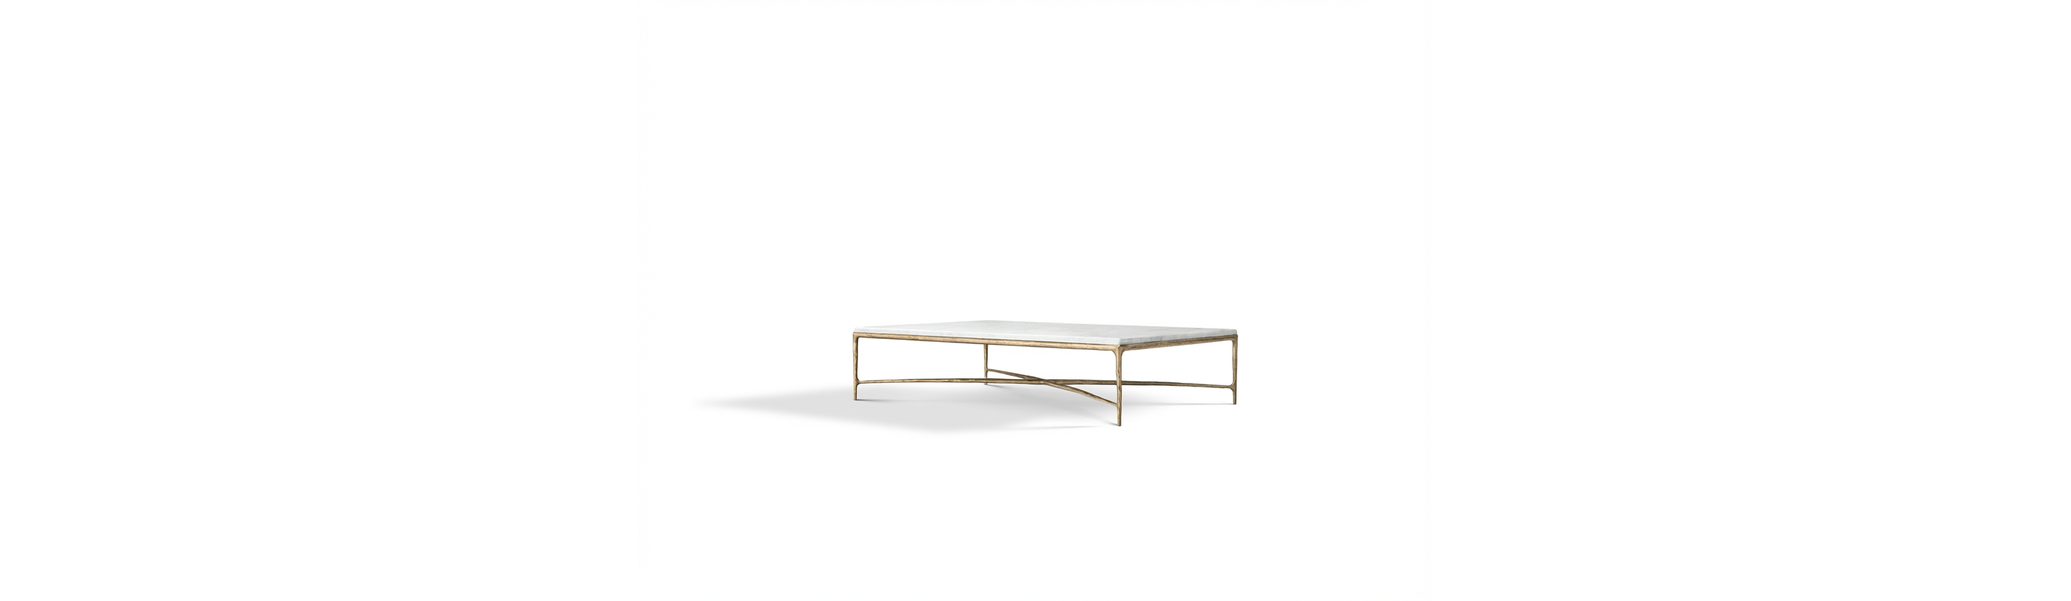
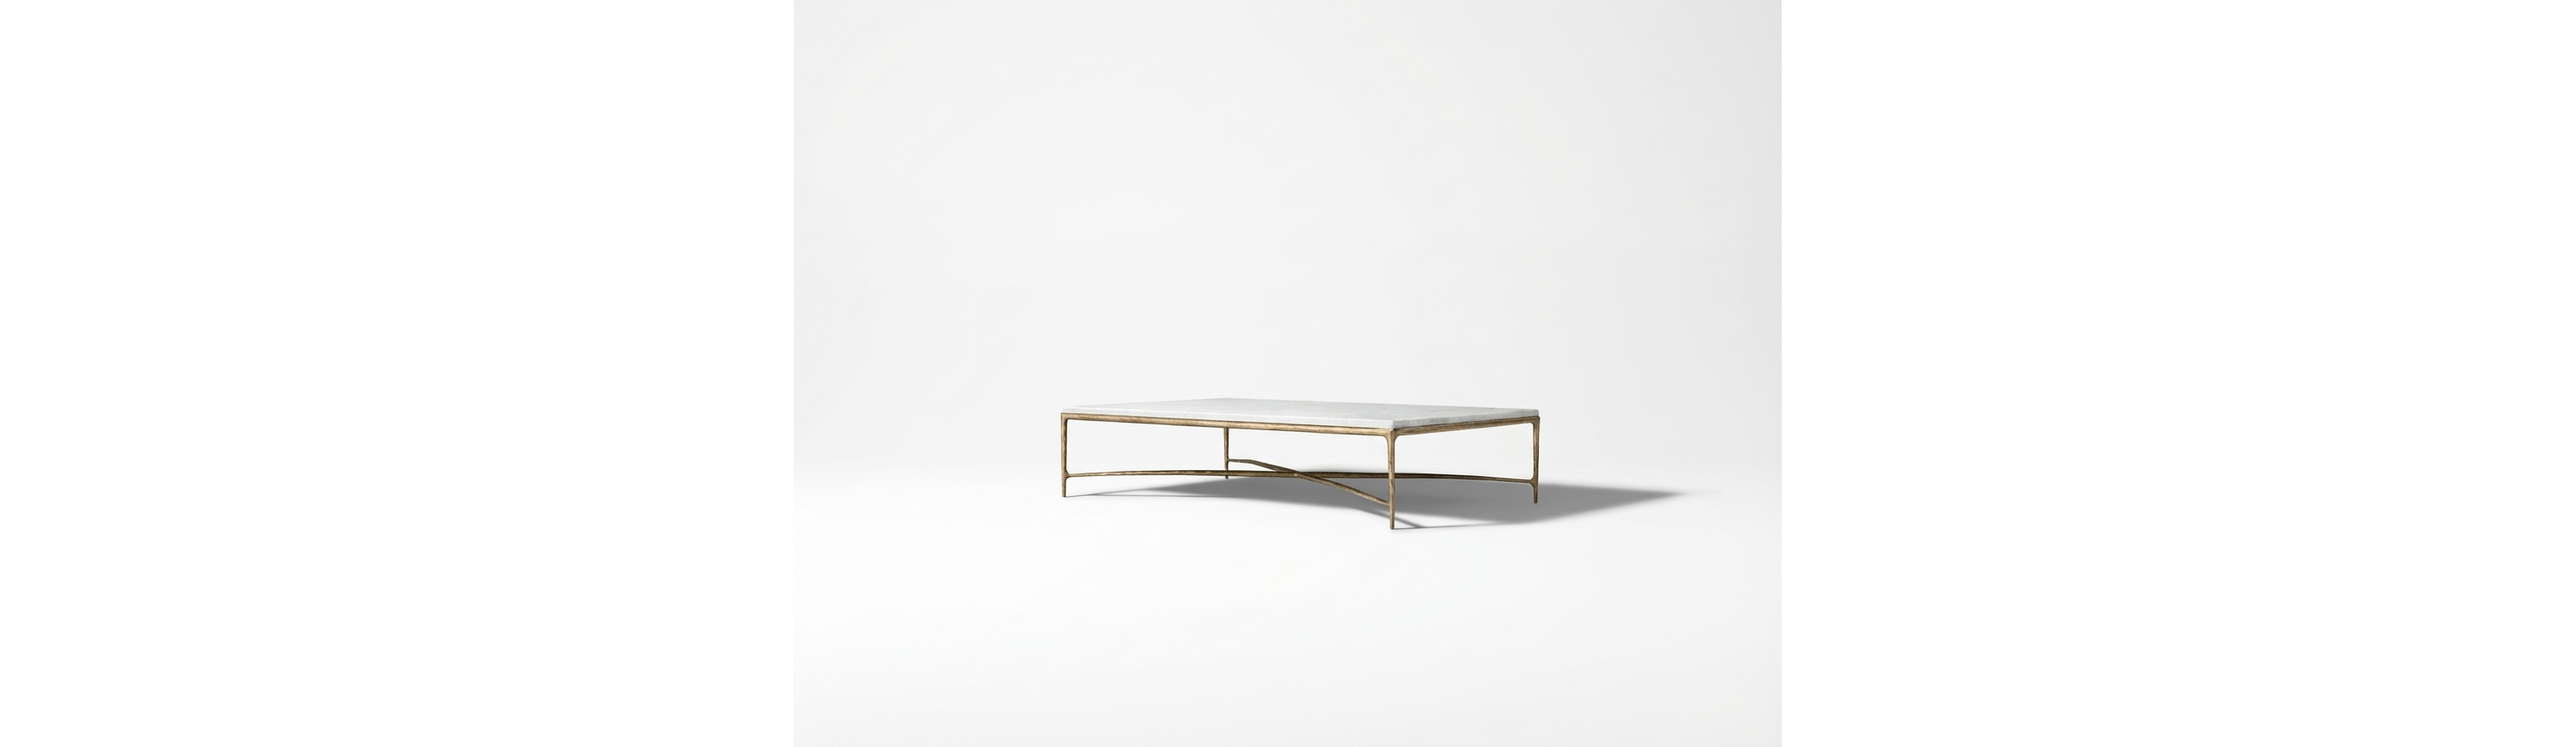
Set 4K long-edge default and refresh shadowed outputs

Changed region(s): [[0.3716, 0.6067, 0.6503, 0.728], [0.6503, 0.0, 0.7122, 0.455]]

diff --git a/shadow_transfer.py b/shadow_transfer.py
@@ -22,9 +22,10 @@ import google.generativeai as genai
 from dotenv import load_dotenv
 from PIL import Image
 
-# Allow large source images; default behavior is to send full resolution to the API.
+# Allow large source images; default behavior is to send 4K long-edge images to the API.
 Image.MAX_IMAGE_PIXELS = None
 SCRIPT_DIR = Path(__file__).resolve().parent
+FOUR_K_LONG_EDGE = 4096
 
 ImageKey = Tuple[str, str]
 DEFAULT_SAFETY_SETTINGS = [
@@ -149,26 +150,30 @@ def summarize_response_for_debug(response) -> str:
     return "; ".join(summaries) if summaries else "no candidates"
 
 
-def resize_if_needed(img: Image.Image, max_side: int) -> Image.Image:
-    """Downscale image to max_side on the longest edge to keep payload reasonable."""
-    if max_side <= 0:
+def resize_to_long_edge(img: Image.Image, long_edge: int) -> Image.Image:
+    """Resize (up or down) to the requested long-edge size."""
+    if long_edge <= 0:
         return img
     width, height = img.size
     longest = max(width, height)
-    if longest <= max_side:
+    if longest == long_edge:
         return img
-    scale = max_side / float(longest)
-    new_size = (max(1, int(width * scale)), max(1, int(height * scale)))
+    scale = long_edge / float(longest)
+    new_size = (
+        max(1, int(round(width * scale))),
+        max(1, int(round(height * scale))),
+    )
     return img.resize(new_size, resample=Image.LANCZOS)
 
 
-def load_image_bytes_for_api(path: Path, max_side: int) -> Tuple[str, bytes]:
+def load_image_bytes_for_api(path: Path, long_edge: int) -> Tuple[str, bytes, Tuple[int, int]]:
     """Always returns PNG bytes for Gemini to avoid TIFF ingestion issues."""
     with Image.open(path) as img:
         # Preserve transparency if present; otherwise keep RGB.
         mode = "RGBA" if img.mode in ("RGBA", "LA") else "RGB"
         converted = img.convert(mode)
-        converted = resize_if_needed(converted, max_side)
+        converted = resize_to_long_edge(converted, long_edge)
+        final_size = converted.size
         # Saving to a real temp file avoids PIL _idat.fileno issues on some builds.
         tmp_path: Optional[Path] = None
         try:
@@ -176,7 +181,7 @@ def load_image_bytes_for_api(path: Path, max_side: int) -> Tuple[str, bytes]:
                 tmp_path = Path(tmp.name)
             converted.save(tmp_path, format="PNG")
             data = tmp_path.read_bytes()
-            return "image/png", data
+            return "image/png", data, final_size
         finally:
             if tmp_path and tmp_path.exists():
                 tmp_path.unlink(missing_ok=True)
@@ -190,10 +195,8 @@ def request_shadowed_image(
     attempts: int = 3,
     backoff: int = 10,
 ) -> bytes:
-    target_mime, target_bytes = load_image_bytes_for_api(target_path, max_side)
-    donor_mime, donor_bytes = load_image_bytes_for_api(donor_path, max_side)
-    with Image.open(target_path) as base_img:
-        target_size = base_img.size
+    target_mime, target_bytes, target_size = load_image_bytes_for_api(target_path, max_side)
+    donor_mime, donor_bytes, _ = load_image_bytes_for_api(donor_path, max_side)
     prompt = (
         "Use the FIRST image as the base and the SECOND image only as a shadow reference. "
         "Extract only the shadow shapes/softness from the donor and apply them onto the target exactly as they appear in the donor. "
@@ -270,8 +273,8 @@ def main() -> None:
     parser.add_argument(
         "--max-side",
         type=int,
-        default=int(os.getenv("MAX_SIDE", "0")),
-        help="Requested max long-edge pixels to send to Gemini (0 for uncapped request; actual send is clamped by API_MAX_SIDE).",
+        default=int(os.getenv("MAX_SIDE", str(FOUR_K_LONG_EDGE))),
+        help="Requested long-edge resolution to send to Gemini (0 for uncapped request; actual send is clamped by API_MAX_SIDE).",
     )
     args = parser.parse_args()
 
@@ -279,7 +282,7 @@ def main() -> None:
     if not api_key:
         raise EnvironmentError("GEMINI_API_KEY is missing. Populate .env or the environment.")
 
-    api_max_side = int(os.getenv("API_MAX_SIDE", "6144"))
+    api_max_side = int(os.getenv("API_MAX_SIDE", str(FOUR_K_LONG_EDGE)))
     requested_max_side = args.max_side
     effective_max_side = api_max_side if requested_max_side <= 0 else min(requested_max_side, api_max_side)
 
@@ -290,8 +293,8 @@ def main() -> None:
 
     print(f"Using model: {args.model}")
     print(
-        f"Input sizing: requested max_side={requested_max_side or 'uncapped'}, "
-        f"API cap={api_max_side}, effective max_side={effective_max_side}"
+        f"Input sizing: requested long_edge={requested_max_side or 'uncapped'}, "
+        f"API cap={api_max_side}, effective long_edge={effective_max_side}"
     )
     print(f"Indexing donors in {donor_root}...")
     donor_index = build_donor_index(donor_root)
@@ -320,7 +323,7 @@ def main() -> None:
         print(f"Processing {target_path.name} with donor {donor_path.name}...")
         print(
             f"   Sending both images to Gemini as PNG (converted in-memory, "
-            f"max_side={effective_max_side or 'original'})."
+            f"long_edge={effective_max_side or 'original'}); enforcing responses to the same size."
         )
         try:
             image_bytes = request_shadowed_image(
